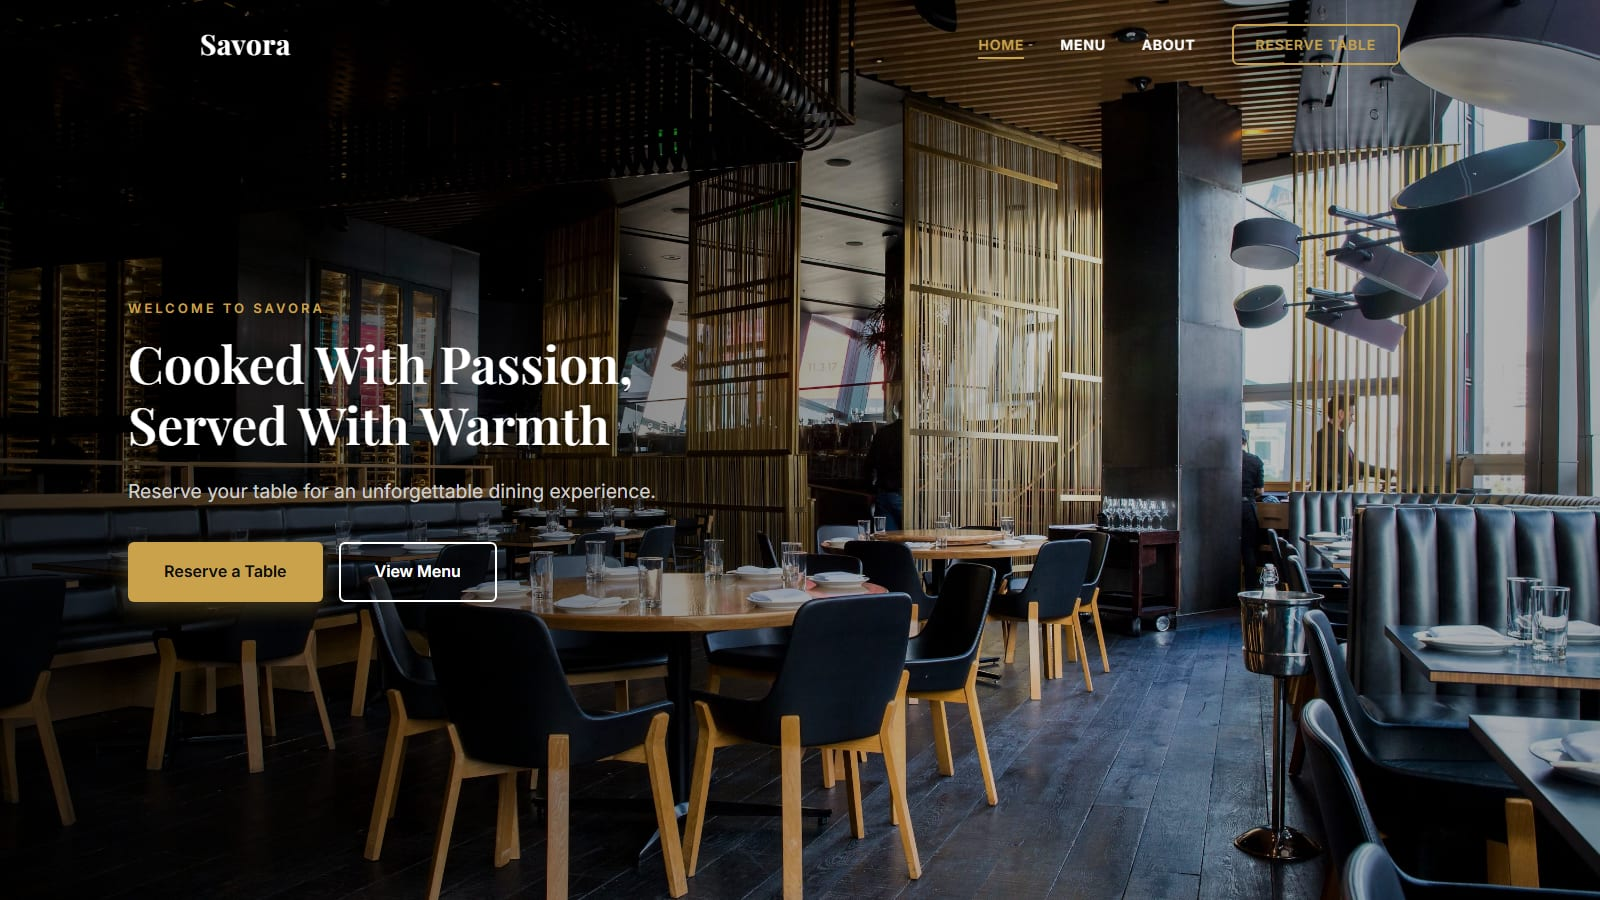
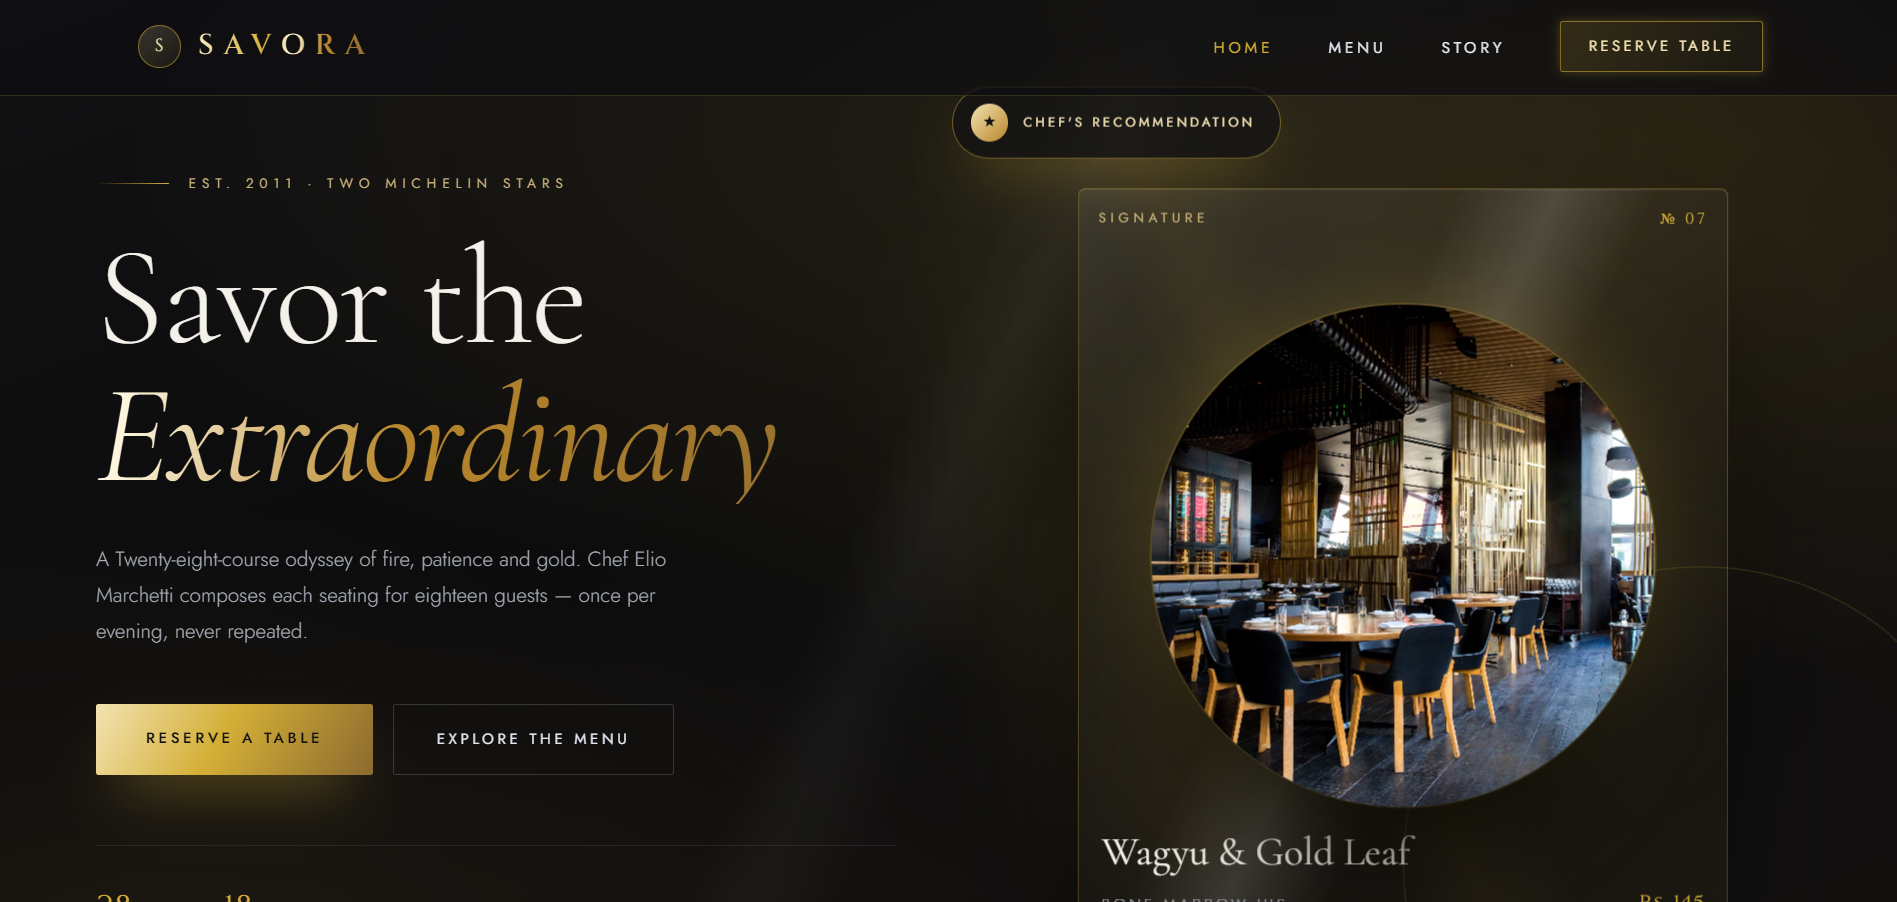
Add resume preview modal and update Savora URL and thumbnail

diff --git a/components/Hero.tsx b/components/Hero.tsx
@@ -1,14 +1,24 @@
 "use client";
 
 import { useEffect, useRef, useState } from "react";
-import { Download, Mail, Phone } from "lucide-react";
+import { Download, Mail, Phone, X } from "lucide-react";
 import GithubIcon from "@/components/GithubIcon";
 import LinkedinIcon from "@/components/LinkedinIcon";
 import { profile } from "@/data/cv";
 
 export default function Hero() {
   const [typed, setTyped] = useState("");
+  const [showResumePreview, setShowResumePreview] = useState(false);
   const sectionRef = useRef<HTMLElement>(null);
+
+  useEffect(() => {
+    if (!showResumePreview) return;
+    function onKeyDown(e: KeyboardEvent) {
+      if (e.key === "Escape") setShowResumePreview(false);
+    }
+    window.addEventListener("keydown", onKeyDown);
+    return () => window.removeEventListener("keydown", onKeyDown);
+  }, [showResumePreview]);
 
   useEffect(() => {
     const el = sectionRef.current;
@@ -119,14 +129,14 @@ export default function Hero() {
             >
               View Projects
             </a>
-            <a
-              href="/resume.pdf"
-              download
+            <button
+              type="button"
+              onClick={() => setShowResumePreview(true)}
               className="flex items-center gap-2 rounded-md border border-border bg-surface px-5 py-2.5 font-mono text-sm font-semibold text-foreground shadow-sm transition-all hover:-translate-y-0.5 hover:border-accent hover:bg-accent/5 hover:text-accent"
             >
               <Download size={16} />
               Download CV
-            </a>
+            </button>
             <a
               href="#contact"
               className="flex items-center gap-2 rounded-md border border-border bg-surface px-5 py-2.5 font-mono text-sm font-semibold text-foreground shadow-sm transition-all hover:-translate-y-0.5 hover:border-accent hover:bg-accent/5 hover:text-accent"
@@ -200,6 +210,47 @@ export default function Hero() {
           <div className="mx-auto mt-3 h-3 w-4/5 max-w-sm rounded-full bg-black/25 blur-md" />
         </div>
       </div>
+
+      {showResumePreview && (
+        <div
+          className="fixed inset-0 z-50 flex items-center justify-center bg-black/60 p-4 backdrop-blur-sm"
+          onClick={() => setShowResumePreview(false)}
+        >
+          <div
+            className="flex h-[85vh] w-full max-w-3xl flex-col overflow-hidden rounded-lg border border-border bg-surface shadow-2xl"
+            onClick={(e) => e.stopPropagation()}
+          >
+            <div className="flex items-center justify-between border-b border-border px-4 py-3">
+              <span className="font-mono text-sm font-semibold text-foreground">
+                Resume Preview
+              </span>
+              <div className="flex items-center gap-2">
+                <a
+                  href="/resume.pdf"
+                  download
+                  className="flex items-center gap-2 rounded-md bg-accent px-3 py-1.5 font-mono text-xs font-semibold text-white shadow-sm transition-all hover:-translate-y-0.5 hover:shadow-md"
+                >
+                  <Download size={14} />
+                  Download
+                </a>
+                <button
+                  type="button"
+                  aria-label="Close preview"
+                  onClick={() => setShowResumePreview(false)}
+                  className="flex h-8 w-8 items-center justify-center rounded-md text-muted transition-colors hover:bg-surface-2 hover:text-accent"
+                >
+                  <X size={18} />
+                </button>
+              </div>
+            </div>
+            <iframe
+              src="/resume.pdf"
+              title="Resume Preview"
+              className="h-full w-full flex-1 bg-white"
+            />
+          </div>
+        </div>
+      )}
     </section>
   );
 }

diff --git a/data/cv.ts b/data/cv.ts
@@ -61,7 +61,7 @@ export const projects: Project[] = [
     slug: "savora",
     name: "Savora",
     status: "Completed · Deployed",
-    liveUrl: "https://mahnoor-savora.vercel.app/",
+    liveUrl: "https://mahnoor-savora-one.vercel.app/",
     image: "/projects/savora.jpg",
     description:
       "A restaurant web system built with a Django backend and React frontend, letting users browse menus and make table bookings.",
